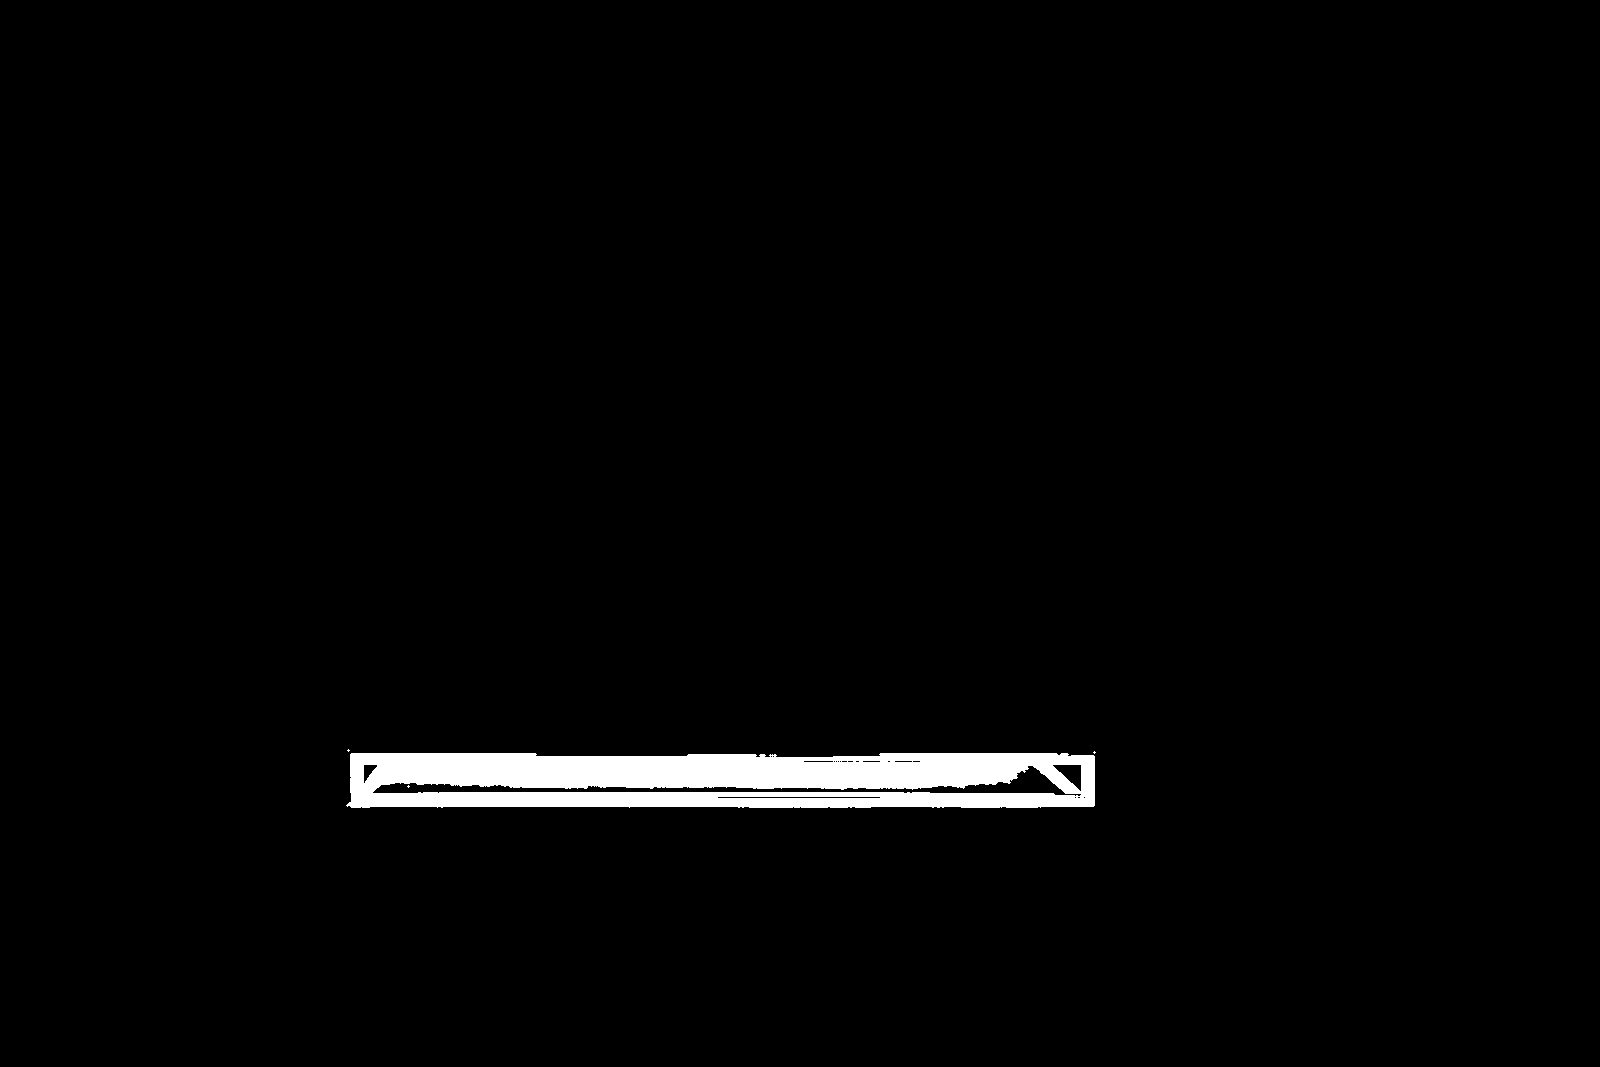
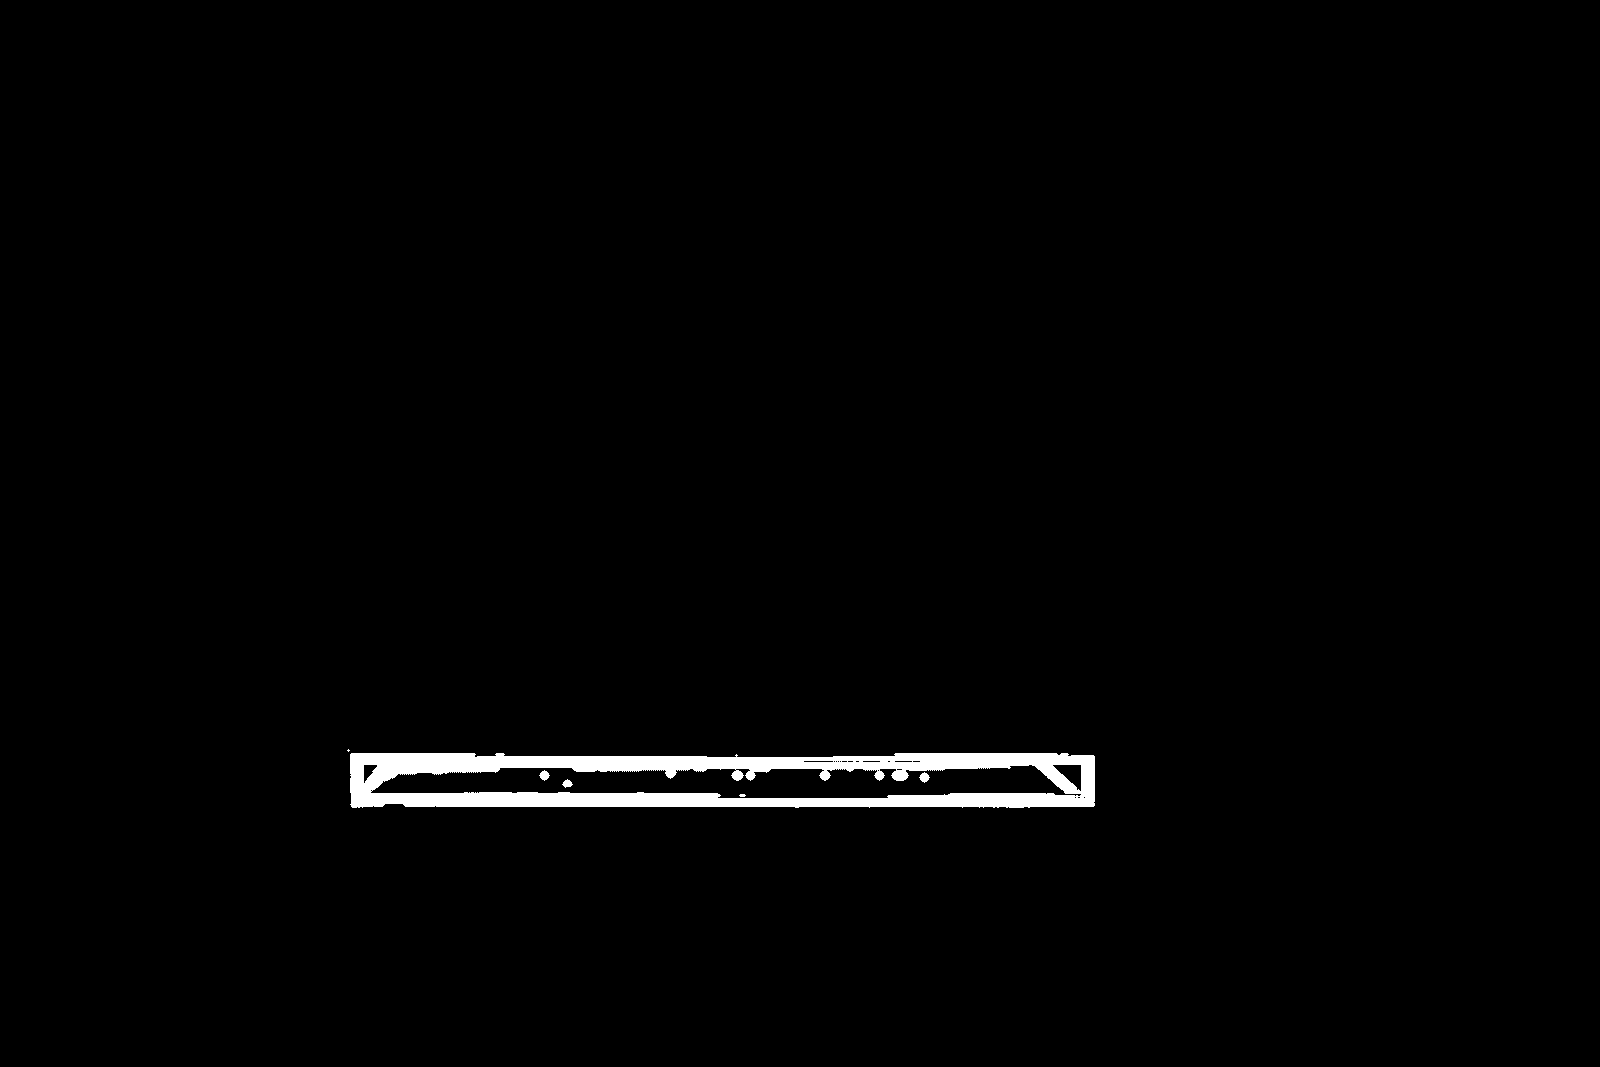
Fix sideboard leaks: protect whole niche objects, finish the floor under the frame
Niche: single SAM clicks left the candle's right half and lid, the gnome's hat and
the glasses' rims painted. Extra clicks on the missed parts, the cable's colour
rule extended down to the glasses, and a colour rule for the gnome's gold hat band.

Floor: the black frame's rule (value <= 0.13) also took the dark parquet under
the cabinet, so it was never refinished. The frame is neutral (sat <= 0.5) and the
shadowed parquet stays warm. A new protectColour `spread` option takes the frame's
dark contact shadows within 4 px too, which the half-res baked light would
otherwise render as light specks (unit-tested). Cabinet re-baked, style occluders
synced, leak spots added to the accuracy spec.

Changed region(s): [[0.25, 0.7113, 0.6562, 0.7732]]

diff --git a/scenes/scenes.ts b/scenes/scenes.ts
@@ -373,9 +373,18 @@ export const SCENES: Scene[] = [
             C(505, 290), C(625, 270), C(730, 295), C(820, 300), C(930, 250), C(910, 305), C(960, 305), C(1025, 305),
             // In the niche: glasses, candle, little elephant, gnome
             C(690, 400), C(745, 400), C(668, 412), C(660, 500), C(678, 530), C(730, 525), C(770, 522),
+            // …and the parts one click left out (SAM took the candle's label and left half only,
+            // not the gnome's hat or the glasses' rims): the candle's dark right half and its lid,
+            // the elephant's legs, the hat, both rims of the two glasses on the right
+            C(764, 406), C(760, 420), C(760, 383), C(665, 420), C(665, 451), C(718, 541), C(716, 521), C(760, 505), C(785, 520),
           ],
-          // The lamp's black cable down the back of the niche
-          protectColour: [{ region: [[C(712, 337), C(750, 337), C(750, 492), C(712, 492)]], maxValue: 0.12 }],
+          // The lamp's black cable down the back of the niche, and on down to the glasses
+          protectColour: [
+            { region: [[C(704, 337), C(752, 337), C(752, 535), C(704, 535)]], maxValue: 0.12 },
+            // The gold band near the gnome's hat tip, which no click takes: saturated gold against
+            // the niche's neutral grey
+            { region: [[C(650, 438), C(685, 438), C(685, 470), C(650, 470)]], hueMin: 20, hueMax: 60, minSat: 0.4 },
+          ],
         },
       },
       {
@@ -388,7 +397,13 @@ export const SCENES: Scene[] = [
           anchors: [p(0.6, 0.85)],
           // Below the skirting and the door's threshold, under the sideboard too (its black frame stays)
           outline: [[C(100, 1067), C(160, 990), C(352, 800), C(352, 756), C(1095, 756), C(1095, 740), C(1600, 735), C(1600, 1067)]],
-          protectColour: [{ region: [[C(345, 750), C(1100, 750), C(1100, 810), C(345, 810)]], maxValue: 0.13 }],
+          // The black frame is neutral; the parquet in the deep shadow under the cabinet is as dark but
+          // stays warm (hue 20–45°, sat 0.7+), so it is floor
+          // …with its dark contact shadows a few px either side (too thin for the half-res baked light,
+          // they would come out lit)
+          protectColour: [
+            { region: [[C(345, 750), C(1100, 750), C(1100, 810), C(345, 810)]], maxValue: 0.13, maxSat: 0.5, spread: { radius: 4, range: { maxValue: 0.1 } } },
+          ],
         },
       },
       {

diff --git a/scenes/recipeMask.ts b/scenes/recipeMask.ts
@@ -79,6 +79,10 @@ export interface ColourRange {
   // `core`: a piece is kept only if at least `minShare` of its pixels reach `minSat` — brass has a
   // saturated core, warm paint in shadow (an inside corner, a bracket's return) never does
   blobs?: BlobFilter;
+  // …and the pixels within `radius` px of those that fall in a looser `range`: a black frame bar
+  // takes its own dark contact shadow, which is warm like the floor but too thin for the baked
+  // light to shade
+  spread?: { radius: number; range: ColourRange };
 }
 
 export interface BlobFilter {
@@ -124,10 +128,17 @@ export const colourMask = (rgba: Uint8ClampedArray, w: number, h: number, region
   for (let i = 0; i < w * h; i++) if (inside.alpha[i] && inColourRange(rgba, i * 4, range)) out.alpha[i] = 255;
   // Knobs: close their specular gaps first (a small knob is a ring of saturated pixels), then
   // open away the 1–2 px groove shadows, then keep the compact pieces
-  if (!range.blobs) return out;
-  const { core } = range.blobs;
-  const keep = core ? (piece: number[]) => piece.filter((i) => saturation(rgba, i * 4) >= core.minSat).length >= core.minShare * piece.length : undefined;
-  return keepBlobs(openMask(closeMask(out, 1), 1), range.blobs, keep);
+  let kept = out;
+  if (range.blobs) {
+    const { core } = range.blobs;
+    const keep = core ? (piece: number[]) => piece.filter((i) => saturation(rgba, i * 4) >= core.minSat).length >= core.minShare * piece.length : undefined;
+    kept = keepBlobs(openMask(closeMask(out, 1), 1), range.blobs, keep);
+  }
+  if (!range.spread) return kept;
+  const near = dilateDisc(kept, range.spread.radius);
+  const spread = range.spread.range;
+  for (let i = 0; i < w * h; i++) if (near.alpha[i] >= 128 && inside.alpha[i] && inColourRange(rgba, i * 4, spread)) kept.alpha[i] = 255;
+  return kept;
 };
 
 const invert = (m: AlphaMask): AlphaMask => ({ ...m, alpha: m.alpha.map((a) => 255 - a) });

diff --git a/tests/unit/scenes.test.ts b/tests/unit/scenes.test.ts
@@ -107,6 +107,19 @@ describe('colourMask', () => {
     expect([...colourMask(rgba, 4, 1, region, { minValue: 0.7 }).alpha]).toEqual([0, 255, 0, 0]);
   });
 
+  it('spreads to nearby pixels of a looser range: a black bar takes its dark contact shadow', async () => {
+    const { colourMask } = await import('../../scenes/recipeMask');
+    // 1×12 column: lit floor, a dark warm contact shadow (rows 3–4), a neutral black bar (5–6),
+    // warm shadow again (7), then lit floor; and a lone dark warm pixel far from the bar (10)
+    const col: number[][] = [[150, 100, 60], [150, 100, 60], [150, 100, 60], [20, 12, 4], [18, 10, 3], [10, 10, 11], [9, 9, 10], [20, 12, 4], [150, 100, 60], [150, 100, 60], [20, 12, 4], [150, 100, 60]];
+    const rgba = new Uint8ClampedArray(col.flatMap((c) => [...c, 255]));
+    const region = [[{ xPct: 0, yPct: 0 }, { xPct: 1, yPct: 0 }, { xPct: 1, yPct: 1 }, { xPct: 0, yPct: 1 }]];
+    const bar = { maxValue: 0.13, maxSat: 0.5 };
+    expect([...colourMask(rgba, 1, 12, region, bar).alpha].map((a) => +(a > 0))).toEqual([0, 0, 0, 0, 0, 1, 1, 0, 0, 0, 0, 0]);
+    const spread = colourMask(rgba, 1, 12, region, { ...bar, spread: { radius: 2, range: { maxValue: 0.13 } } });
+    expect([...spread.alpha].map((a) => +(a > 0))).toEqual([0, 0, 0, 1, 1, 1, 1, 1, 0, 0, 0, 0]);
+  });
+
   it('keeps only blobs with a saturated core: a brass knob, not cream paint in shadow', async () => {
     const { colourMask } = await import('../../scenes/recipeMask');
     // 30×12: a 6×6 knob at x 2–7 (rim at sat ~0.4, core at sat ~0.75) and a 6×6 patch of

diff --git a/scenes/types.ts b/scenes/types.ts
@@ -1,5 +1,5 @@
 import { Material, SurfaceGeometry, SurfaceKind } from '../types';
-import type { KeepColour } from './recipeMask';
+import type { ColourRange, KeepColour } from './recipeMask';
 
 // The studio's preset scenes. Customers never upload a photo: each scene is a fixed photo (or
 // render) whose items were cut out once, offline, in /dev/scenes and saved as masks + planes
@@ -58,7 +58,7 @@ export interface BakeRecipe {
   // Keep only the pixels of the item's own material inside the outline (fence boards, not the
   // garden through their gaps nor a tree before them); `solid` outlines are exempt
   keepColour?: KeepColour;
-  protectColour?: Array<{ region: PctPoint[][]; hueMin?: number; hueMax?: number; minSat?: number; maxSat?: number; minValue?: number; maxValue?: number; blobs?: { minArea: number; maxArea: number; maxAspect: number; core?: { minSat: number; minShare: number } } }>;
+  protectColour?: Array<{ region: PctPoint[][]; hueMin?: number; hueMax?: number; minSat?: number; maxSat?: number; minValue?: number; maxValue?: number; blobs?: { minArea: number; maxArea: number; maxAspect: number; core?: { minSat: number; minShare: number } }; spread?: { radius: number; range: ColourRange } }>;
 }
 
 export interface SceneItem {

diff --git a/scenes/qa.ts b/scenes/qa.ts
@@ -83,4 +83,9 @@ export const SCENE_QA: Record<string, ItemQa> = {
   'wardrobe/floor': { include: [[1500, 950], [800, 1000]], exclude: [[110, 995], [150, 962], [1540, 895], [1500, 860]] },
   // The door casing's plinth block is not wall
   'cabinet/wall': { include: [[250, 500]], exclude: [[155, 840]] },
+  // The objects in the niche are not sideboard (the candle's right half and lid, the gnome's hat,
+  // the glasses' rims, the cable down to them); the niche around them is
+  'cabinet/sideboard': { include: [[700, 380], [790, 470], [450, 450]], exclude: [[764, 406], [760, 420], [760, 383], [665, 451], [718, 541], [716, 521], [760, 505], [785, 520]] },
+  // The parquet in the shadow under the sideboard is floor, its black frame is not
+  'cabinet/floor': { include: [[700, 772], [700, 780], [700, 788], [500, 785]], exclude: [[700, 759], [700, 761], [700, 799], [700, 801], [700, 803], [700, 804]] },
 };
